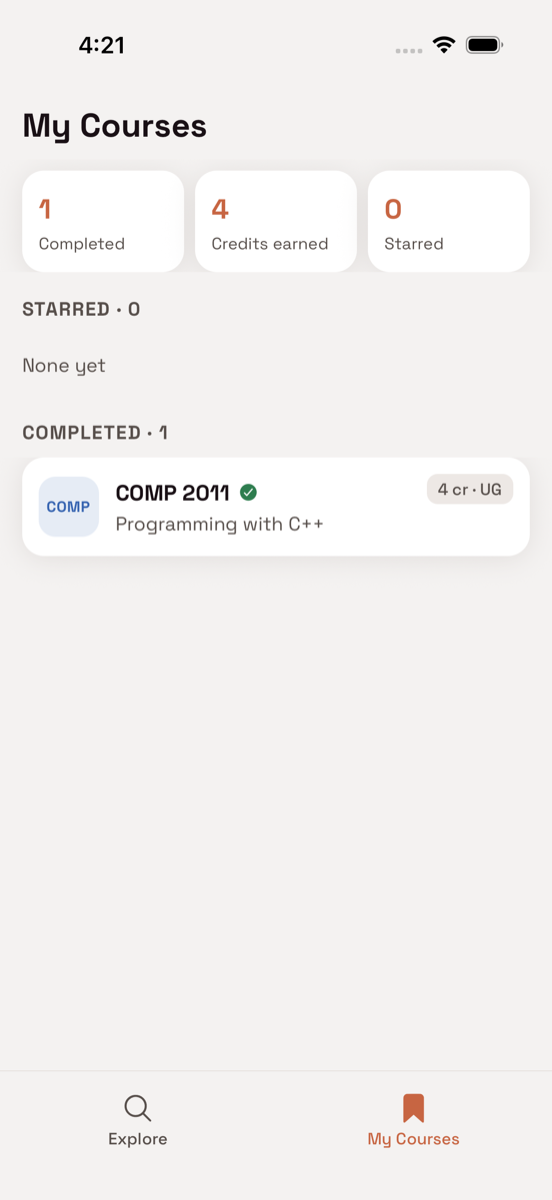
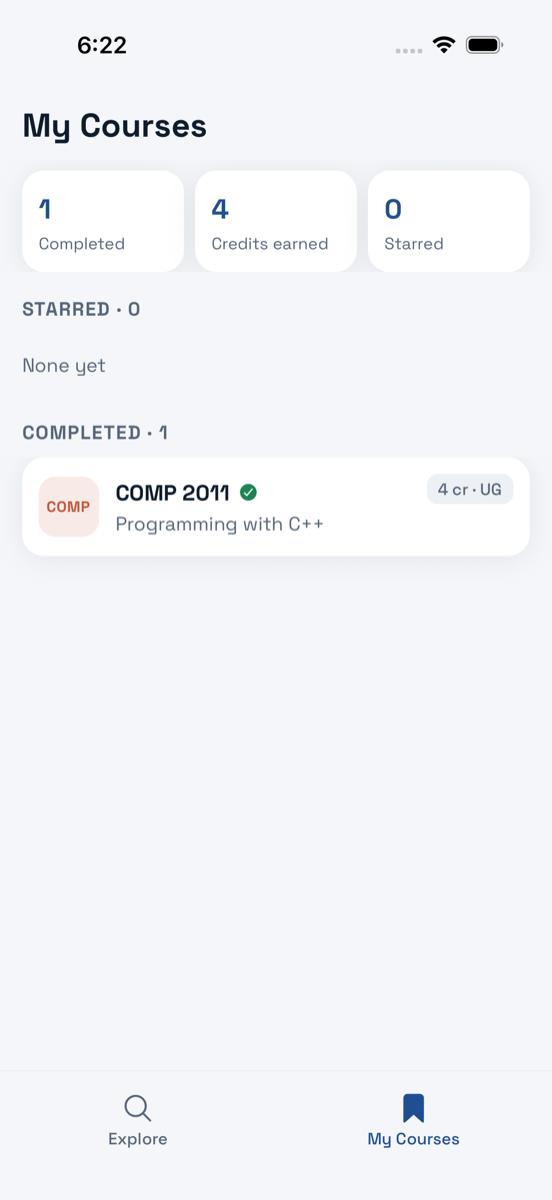
Navy and gold theme; list top gap; refreshed screenshots
- Palettes after HKUST's colours: navy tint, gold star token, cool neutrals, deep navy dark mode
- Department hues: coral replaces blue so badges never read as links
- App icon and splash redrawn in navy with a gold node
- Explore list: 6pt top gap so the first card's shadow isn't clipped (getItemLayout offsets include it)
- README screenshots regenerated in both themes; DECISIONS D15, BUILD-LOG step 10

Verified: tsc, eslint, 48/48 Jest, 4/4 Maestro on iOS. Android re-run still pending.

diff --git a/app/theme/colors.ts b/app/theme/colors.ts
@@ -1,38 +1,42 @@
+/**
+ * Navy and gold, after HKUST's own colours: navy marks anything you can tap, gold marks
+ * things you've picked out (stars, search matches), on cool, quiet greys.
+ */
 const palette = {
   neutral100: "#FFFFFF",
-  neutral200: "#F4F2F1",
-  neutral300: "#D7CEC9",
-  neutral400: "#B6ACA6",
-  neutral500: "#978F8A",
-  neutral600: "#564E4A",
-  neutral700: "#3C3836",
-  neutral800: "#191015",
+  neutral200: "#F4F6F9",
+  neutral300: "#E1E6ED",
+  neutral400: "#C3CCD8",
+  neutral500: "#8E9AAB",
+  neutral600: "#56657A",
+  neutral700: "#34425A",
+  neutral800: "#0F1C2E",
   neutral900: "#000000",
 
-  primary100: "#F4E0D9",
-  primary200: "#E8C1B4",
-  primary300: "#DDA28E",
-  primary400: "#D28468",
-  primary500: "#C76542",
-  primary600: "#A54F31",
+  primary100: "#E3EBF6",
+  primary200: "#C2D3EB",
+  primary300: "#8FAFD9",
+  primary400: "#4F7FC0",
+  primary500: "#1F4F91",
+  primary600: "#163A6B",
 
-  secondary100: "#DCDDE9",
-  secondary200: "#BCC0D6",
-  secondary300: "#9196B9",
-  secondary400: "#626894",
-  secondary500: "#41476E",
+  secondary100: "#DCE3EC",
+  secondary200: "#B9C6D8",
+  secondary300: "#8193AD",
+  secondary400: "#4E6280",
+  secondary500: "#2B3B55",
 
-  accent100: "#FFEED4",
-  accent200: "#FFE1B2",
-  accent300: "#FDD495",
-  accent400: "#FBC878",
-  accent500: "#FFBB50",
+  accent100: "#FBF3DC",
+  accent200: "#F5E4B0",
+  accent300: "#EBCF7A",
+  accent400: "#DDB649",
+  accent500: "#C99A1E",
 
-  angry100: "#F2D6CD",
-  angry500: "#C03403",
+  angry100: "#F6D8D3",
+  angry500: "#C0341D",
 
-  overlay20: "rgba(25, 16, 21, 0.2)",
-  overlay50: "rgba(25, 16, 21, 0.5)",
+  overlay20: "rgba(15, 28, 46, 0.2)",
+  overlay50: "rgba(15, 28, 46, 0.5)",
 } as const
 
 export const colors = {
@@ -63,7 +67,7 @@ export const colors = {
    */
   border: palette.neutral400,
   /**
-   * The main tinting color.
+   * The main tinting color: links, buttons, selected filters.
    */
   tint: palette.primary500,
   /**
@@ -89,24 +93,28 @@ export const colors = {
   /**
    * Recessed fills inside a card (e.g. the raw prerequisite text).
    */
-  surfaceAlt: "#EDE8E5",
+  surfaceAlt: "#EDF1F6",
   /**
    * A faint wash of the tint, behind selected or highlighted content.
    */
-  tintSoft: "rgba(199, 101, 66, 0.12)",
+  tintSoft: "rgba(31, 79, 145, 0.10)",
+  /**
+   * Gold: stars and other things the user has picked out.
+   */
+  star: palette.accent500,
   /**
    * Satisfied state: completed courses, met prerequisites. Kept apart from `tint`, which
    * marks things you can tap.
    */
-  success: "#2E7D4F",
-  successSoft: "rgba(46, 125, 79, 0.12)",
+  success: "#1E8455",
+  successSoft: "rgba(30, 132, 85, 0.12)",
   /**
    * Something still to do: unmet prerequisites.
    */
-  warning: "#9A5B00",
-  warningSoft: "rgba(214, 140, 20, 0.14)",
+  warning: "#A86400",
+  warningSoft: "rgba(221, 150, 30, 0.15)",
   /**
    * Card shadow (light mode only; dark mode separates surfaces by tone).
    */
-  shadow: "rgba(60, 40, 30, 0.10)",
+  shadow: "rgba(15, 28, 46, 0.08)",
 } as const

diff --git a/app/theme/colorsDark.ts b/app/theme/colorsDark.ts
@@ -1,38 +1,42 @@
+/**
+ * Dark variant of the navy/gold theme: a deep navy ground, lighter navy surfaces, and a
+ * brighter blue tint so links stay readable.
+ */
 const palette = {
   neutral900: "#FFFFFF",
-  neutral800: "#F4F2F1",
-  neutral700: "#D7CEC9",
-  neutral600: "#B6ACA6",
-  neutral500: "#978F8A",
-  neutral400: "#564E4A",
-  neutral300: "#3C3836",
-  neutral200: "#191015",
+  neutral800: "#EEF2F7",
+  neutral700: "#CBD4E0",
+  neutral600: "#A3B0C2",
+  neutral500: "#6B7A90",
+  neutral400: "#33425A",
+  neutral300: "#1E2A3D",
+  neutral200: "#0B1320",
   neutral100: "#000000",
 
-  primary600: "#F4E0D9",
-  primary500: "#E8C1B4",
-  primary400: "#DDA28E",
-  primary300: "#D28468",
-  primary200: "#C76542",
-  primary100: "#A54F31",
+  primary600: "#C9DCFB",
+  primary500: "#8AB4F8",
+  primary400: "#5E8FD6",
+  primary300: "#3B6AAE",
+  primary200: "#274C80",
+  primary100: "#1A3357",
 
-  secondary500: "#DCDDE9",
-  secondary400: "#BCC0D6",
-  secondary300: "#9196B9",
-  secondary200: "#626894",
-  secondary100: "#41476E",
+  secondary500: "#DCE3EC",
+  secondary400: "#B9C6D8",
+  secondary300: "#8193AD",
+  secondary200: "#4E6280",
+  secondary100: "#2B3B55",
 
-  accent500: "#FFEED4",
-  accent400: "#FFE1B2",
-  accent300: "#FDD495",
-  accent200: "#FBC878",
-  accent100: "#FFBB50",
+  accent500: "#FBF3DC",
+  accent400: "#F5E4B0",
+  accent300: "#EBCF7A",
+  accent200: "#E6C35C",
+  accent100: "#C99A1E",
 
-  angry100: "#F2D6CD",
-  angry500: "#C03403",
+  angry100: "#F6D8D3",
+  angry500: "#E0604A",
 
-  overlay20: "rgba(25, 16, 21, 0.2)",
-  overlay50: "rgba(25, 16, 21, 0.5)",
+  overlay20: "rgba(0, 0, 0, 0.3)",
+  overlay50: "rgba(0, 0, 0, 0.6)",
 } as const
 
 export const colors = {
@@ -47,12 +51,13 @@ export const colors = {
   separator: palette.neutral300,
   error: palette.angry500,
   errorBackground: palette.angry100,
-  surface: "#241B20",
-  surfaceAlt: "#2F2529",
-  tintSoft: "rgba(232, 193, 180, 0.14)",
-  success: "#7CCB99",
-  successSoft: "rgba(124, 203, 153, 0.14)",
-  warning: "#F0B866",
-  warningSoft: "rgba(240, 184, 102, 0.14)",
+  surface: "#131D2D",
+  surfaceAlt: "#1B2738",
+  tintSoft: "rgba(138, 180, 248, 0.14)",
+  star: palette.accent200,
+  success: "#6FD39F",
+  successSoft: "rgba(111, 211, 159, 0.14)",
+  warning: "#F2B45C",
+  warningSoft: "rgba(242, 180, 92, 0.14)",
   shadow: "rgba(0, 0, 0, 0)",
 } as const

diff --git a/app/screens/ExploreScreen.tsx b/app/screens/ExploreScreen.tsx
@@ -206,7 +206,7 @@ export function ExploreScreen({ navigation }: TabScreenProps<"Explore">) {
         extraData={extraData}
         getItemLayout={(_, index) => ({
           length: COURSE_ROW_HEIGHT,
-          offset: COURSE_ROW_HEIGHT * index,
+          offset: LIST_TOP_GAP + COURSE_ROW_HEIGHT * index,
           index,
         })}
         initialNumToRender={12}
@@ -271,11 +271,16 @@ const $chipRow: ThemedStyle<ViewStyle> = ({ spacing }) => ({
 const $lastChipRow: ThemedStyle<ViewStyle> = ({ spacing }) => ({
   flexWrap: "wrap",
   rowGap: spacing.xs,
-  paddingBottom: spacing.sm,
+  paddingBottom: spacing.xs,
 })
 
-// No top padding: getItemLayout offsets assume rows start at 0.
-const $listContent: ThemedStyle<ViewStyle> = ({ spacing }) => ({ paddingBottom: spacing.md })
+/** Room above the first card so its shadow isn't clipped; getItemLayout adds it to offsets. */
+const LIST_TOP_GAP = 6
+
+const $listContent: ThemedStyle<ViewStyle> = ({ spacing }) => ({
+  paddingTop: LIST_TOP_GAP,
+  paddingBottom: spacing.md,
+})
 
 const $empty: ThemedStyle<ViewStyle> = ({ spacing }) => ({
   paddingTop: spacing.xl,

diff --git a/app/theme/departmentColors.ts b/app/theme/departmentColors.ts
@@ -1,10 +1,10 @@
 /**
  * A stable accent colour per department, so the same prefix always looks the same across
  * the list, search results and course pages. Hues are categorical (no green or amber, which
- * mean "met" and "still needed" elsewhere), and each has a light and a dark variant.
+ * mean "met" and "still needed", and no plain blue, which is the tap colour), and each has a light and a dark variant.
  */
 const HUES = [
-  { light: "#3563B0", dark: "#9DB8F0" }, // blue
+  { light: "#C2553A", dark: "#F4A58E" }, // coral (not blue: navy is the tap colour)
   { light: "#11776F", dark: "#7FD1C7" }, // teal
   { light: "#7A4BB0", dark: "#C4A6EC" }, // purple
   { light: "#B0426B", dark: "#F0A3BF" }, // rose

diff --git a/app/components/course/CourseRow.tsx b/app/components/course/CourseRow.tsx
@@ -72,7 +72,7 @@ export const CourseRow = memo(function CourseRow({
             matchStyle={{ color: colors.tint }}
           />
           {completed && <Ionicons name="checkmark-circle" size={15} color={colors.success} />}
-          {starred && <Ionicons name="star" size={13} color={colors.tint} />}
+          {starred && <Ionicons name="star" size={13} color={colors.star} />}
         </View>
         <Highlighted
           segments={highlightWords(course.title, query)}

diff --git a/app/screens/CourseDetailScreen.tsx b/app/screens/CourseDetailScreen.tsx
@@ -80,7 +80,7 @@ export function CourseDetailScreen({ route, navigation }: AppStackScreenProps<"C
             <Ionicons
               name={isStarred ? "star" : "star-outline"}
               size={22}
-              color={isStarred ? colors.tint : colors.text}
+              color={isStarred ? colors.star : colors.text}
             />
           </Pressable>
         ) : undefined

diff --git a/docs/DECISIONS.md b/docs/DECISIONS.md
@@ -111,7 +111,7 @@ I drove every screen with Maestro in light and dark mode, and fixed:
 
 **Decision:** A small design system on top of the template's theme, applied to every screen:
 - **Surfaces:** courses, sections and stats sit on cards (`surface` token, soft shadow in light mode, a lighter tone in dark mode, where shadows don't show).
-- **Colour carries meaning:** orange (`tint`) = tappable, green (`success`) = met/completed, amber (`warning`) = still needed. Before this, "met" and "link" were both orange.
+- **Colour carries meaning:** `tint` = tappable, green (`success`) = met/completed, amber (`warning`) = still needed. Before this, "met" and "link" were the same colour. (The tint was orange here; D15 made it navy.)
 - **Department colours:** each prefix hashes to one of 8 hues (no green or amber, which already carry meaning), shown as a badge on rows, course pages and the department picker. Same prefix, same colour, everywhere.
 - **Search highlighting:** the matched part of the code (typed with any spacing or case) and the matched title words are emphasised, so it's clear why a result matched.
 - **My Courses summary:** completed, credits earned (range-credit courses count at their minimum and the total shows "+"), and starred.
@@ -119,3 +119,14 @@ I drove every screen with Maestro in light and dark mode, and fixed:
 **Why:** The grading criteria include UX ("information and interactions are clear and coherent"). The old screens worked but were flat, and they used one colour for two meanings. Everything is JS/styling on existing dependencies: no new native modules, so there's no rebuild risk and the bundle barely grows.
 **Kept fixed:** rows are still a fixed height (card + gap) so `getItemLayout` stays exact, and all test IDs and accessibility labels are unchanged.
 **Also fixed:** completed courses were meant to be highlighted in the full chain, but the flag was never passed through. They now show as green chips there and in "Leads to".
+
+### D15 · Navy and gold theme (2026-09-25)
+
+**Decision:** Replace the Ignite starter's terracotta-on-beige with navy and gold, after HKUST's own colours:
+- navy (`tint`) for links, buttons and selected filters;
+- gold (`star`) for stars;
+- cool neutral greys, and a deep navy ground in dark mode, where the tint lifts to a lighter blue so links stay readable;
+- green and amber keep their meanings (met / still needed).
+
+The department hue list swapped its plain blue for coral, so a badge never looks like a link. The app icon and splash use the same navy, and the graph's top node is gold.
+**Why:** The starter palette read as a template. Navy and gold fit a HKUST course explorer and give the app a recognisable identity. Only token values changed; the components already read semantic tokens, so no component code was touched.

diff --git a/README.md b/README.md
@@ -27,7 +27,7 @@ A React Native + Expo app for browsing HKUST courses and understanding their pre
   - Mark courses as **completed** to see whether you meet a course's prerequisites ("Still needed: one of COMP 2711 / MATH 2343").
   - Filter Explore to **"Unlocked for me"**: everything you can take next.
   - A summary of courses completed, credits earned and courses starred.
-- A consistent visual language ([D14](docs/DECISIONS.md#d14--visual-design-pass-2026-09-25)): cards, green for "met", amber for "still needed", orange for anything tappable. Light/dark mode, VoiceOver labels on interactive elements, and state that persists across launches.
+- A consistent visual language ([D14](docs/DECISIONS.md#d14--visual-design-pass-2026-09-25)): cards, navy for anything tappable, gold for stars, green for "met", amber for "still needed" ([D15](docs/DECISIONS.md#d15--navy-and-gold-theme-2026-09-25)). Light/dark mode, VoiceOver labels on interactive elements, and state that persists across launches.
 
 ---
 

diff --git a/docs/BUILD-LOG.md b/docs/BUILD-LOG.md
@@ -69,3 +69,8 @@ Chronological notes on how the app was built. The reasoning behind each choice i
 - Course page: a header card (badge, title, info pills, "Mark as completed" button), sections as cards with icons, a coloured eligibility banner, and tree group labels as pills.
 - My Courses: stats tiles. Department picker: badges.
 - 5 new Jest tests for highlighting (48 total). Maestro: `PrerequisiteCycle` now scrolls to the chain summary, since the taller cards moved it below the fold. `.maestro/screenshots.yaml` produces the README screenshots.
+
+**10 · Theme** (D15)
+- Navy/gold palettes for light and dark, `star` token, coral in place of blue among department hues.
+- Icon and splash redrawn in navy with a gold node (same graph geometry). iOS native project re-synced with `expo prebuild`.
+- README screenshots regenerated with `.maestro/screenshots.yaml` in both themes.
